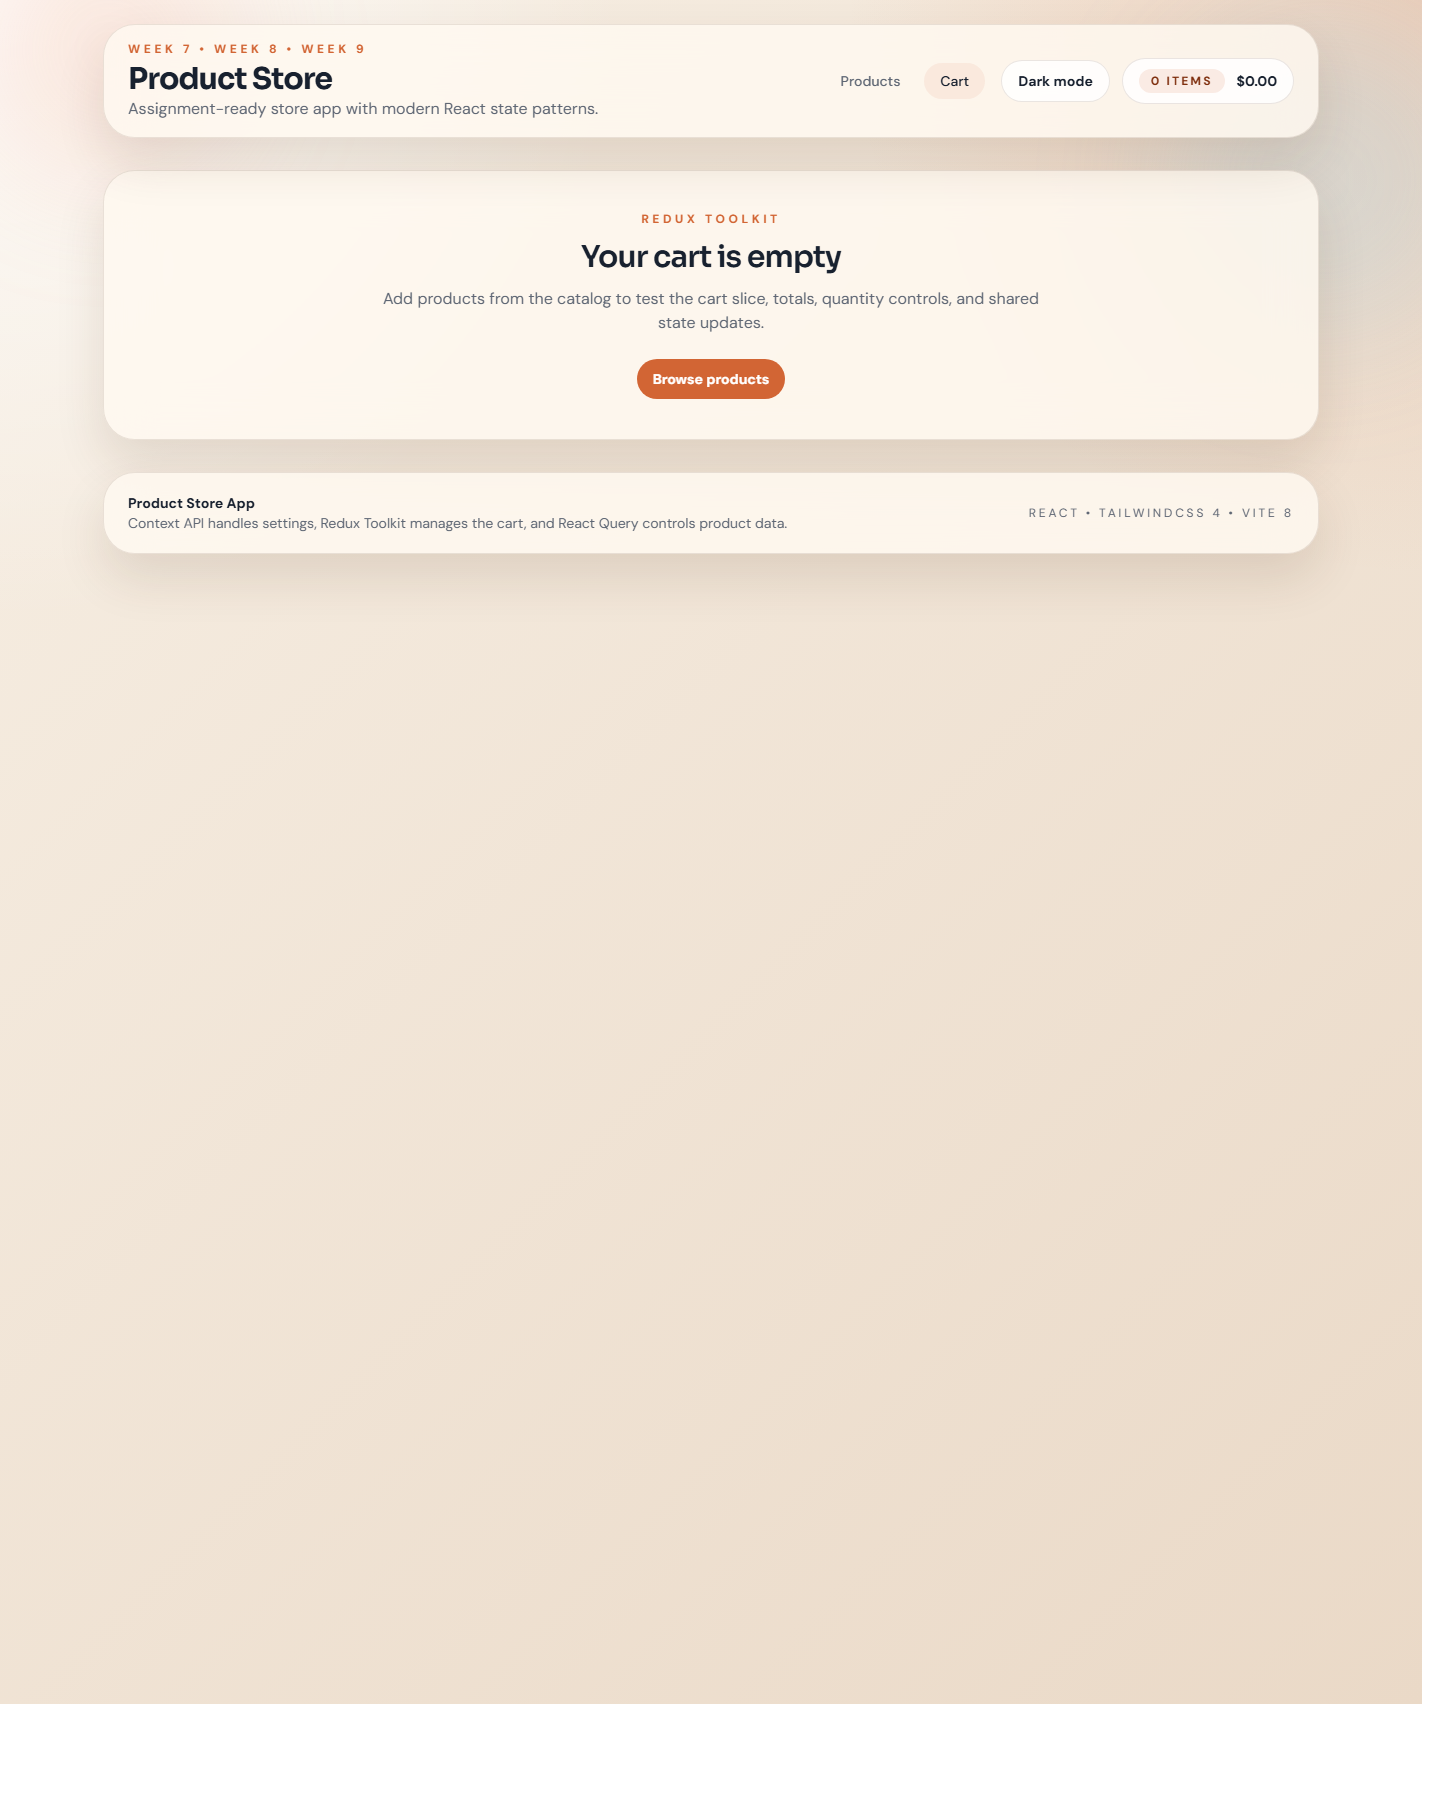
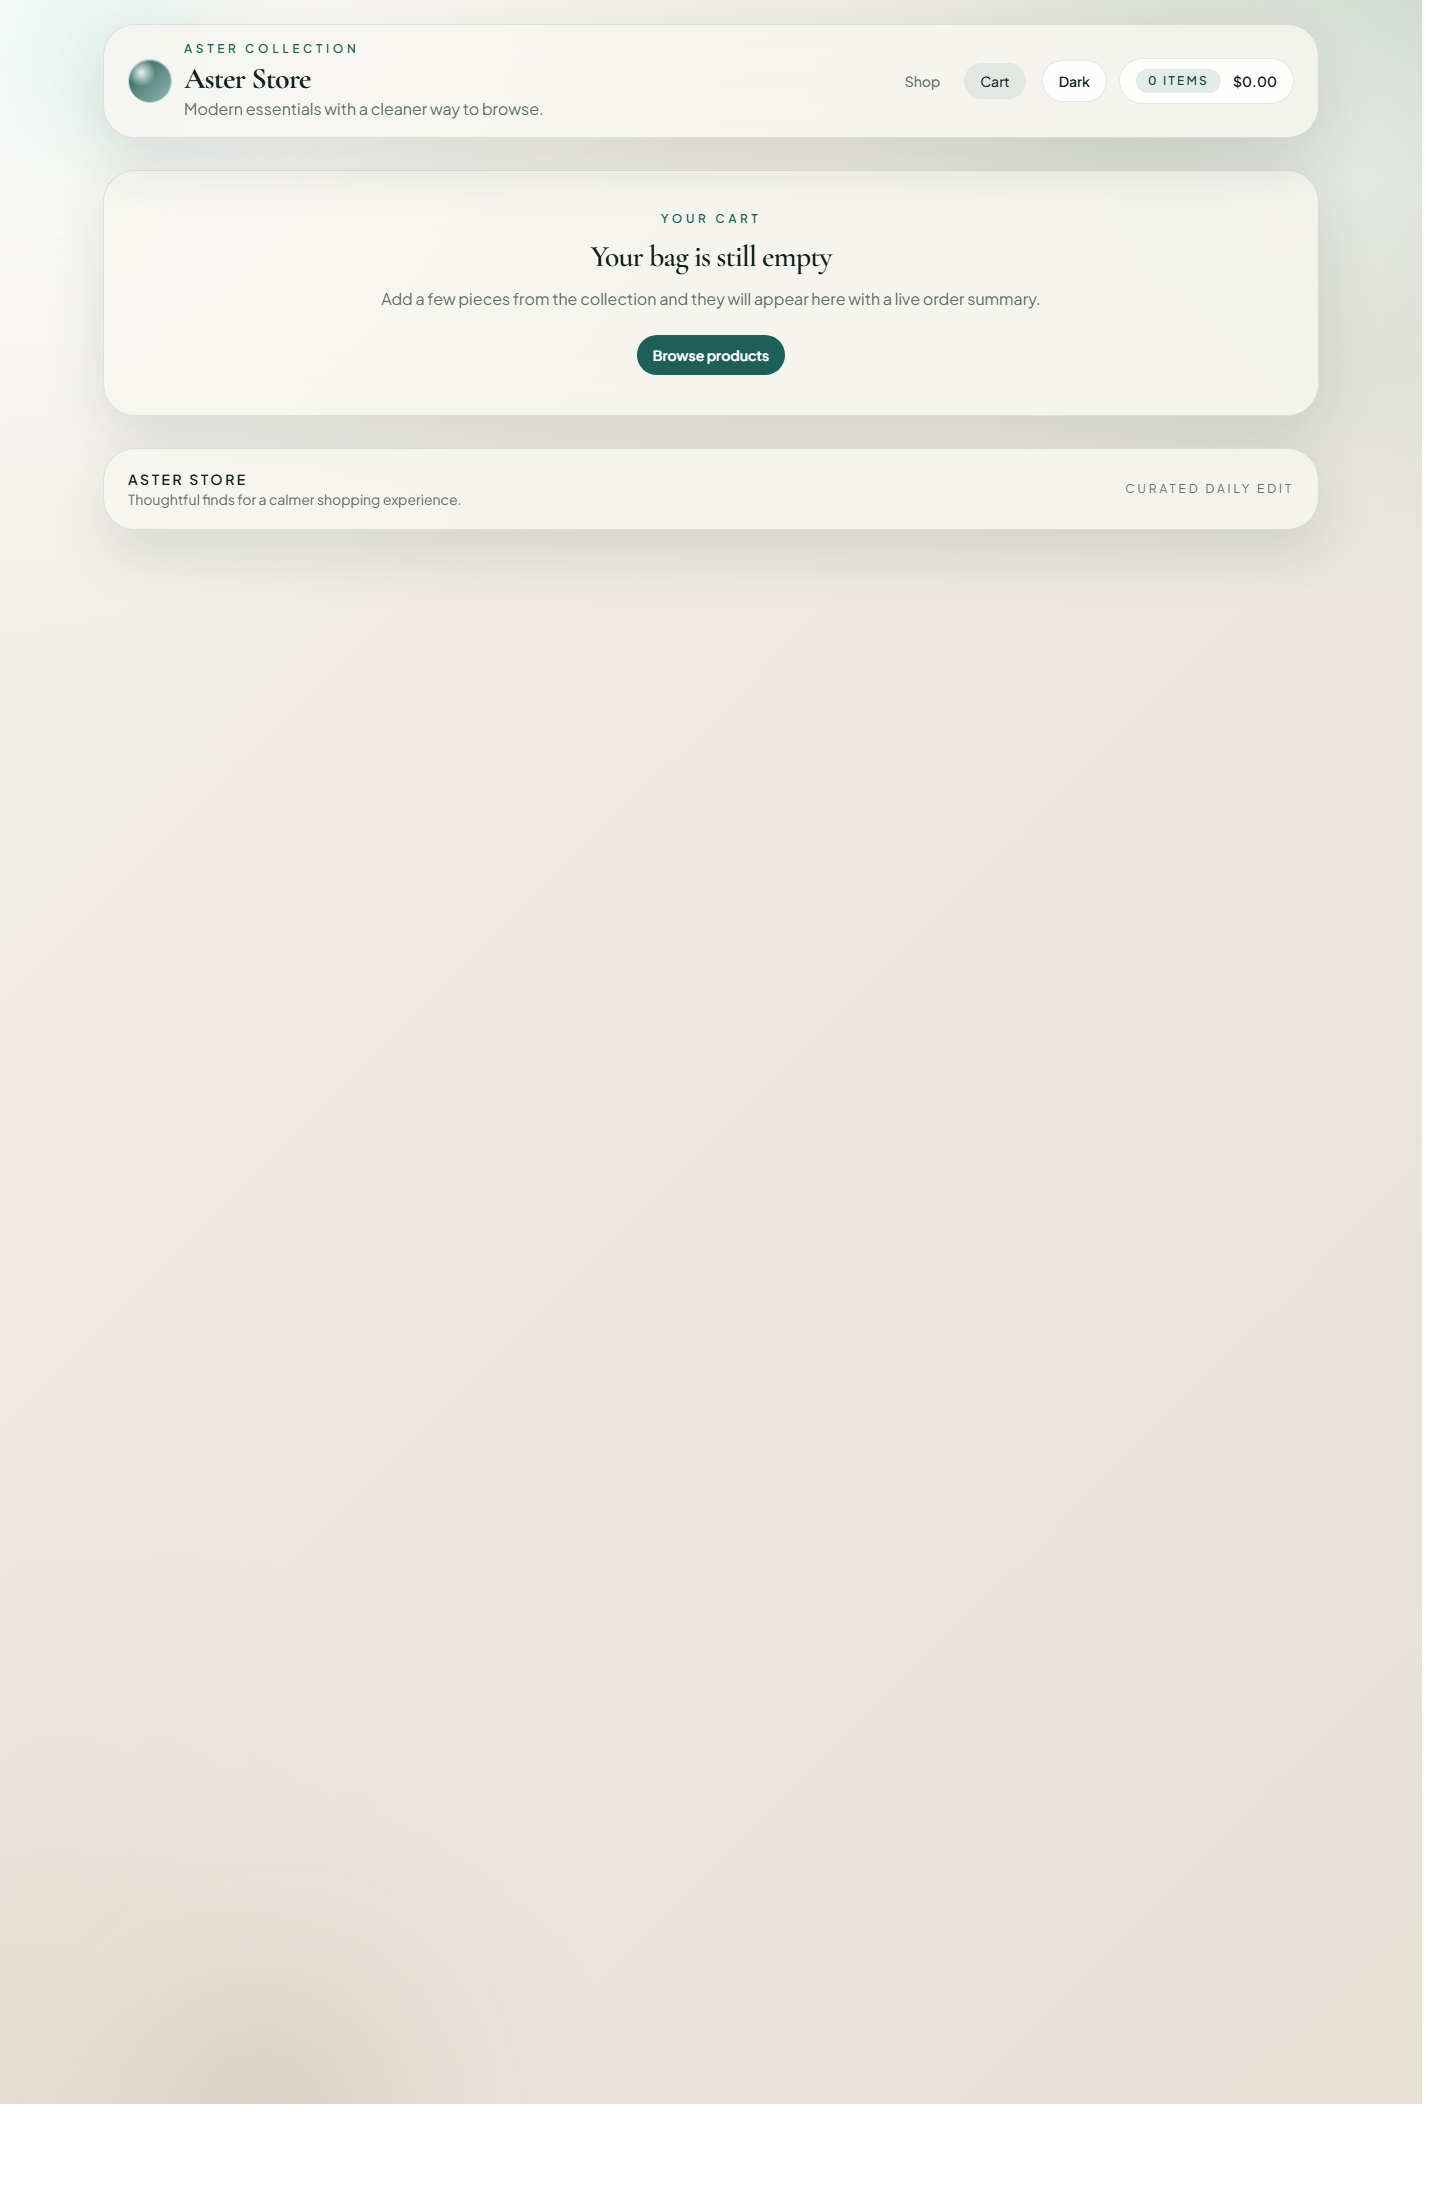
Revamp README content and update screenshots
Redesigned and expanded the README to rebrand the project as "Aster Store", emphasize a more polished storefront experience, and clarify architecture and features. Adds an overview, design direction, storefront category mapping, clearer state-management breakdown (Context + useReducer, Redux Toolkit, React Query), and updated tooling notes. Minor wording tweaks to run/build instructions and screenshots placement. Replaced the three public screenshots (home, details, cart) with updated images.

diff --git a/README.md b/README.md
@@ -1,68 +1,109 @@
-# Product Store App
+# Aster Store
 
-A React assignment project that combines Context API + `useReducer`, Redux Toolkit, and React Query in one small e-commerce app.
+A modern product store app built with React, styled with TailwindCSS 4, and powered by Context API + `useReducer`, Redux Toolkit, and React Query.
 
-## Description
+## Overview
 
-This app lets users browse products, open a product details page, switch shared UI settings, and manage a shopping cart.
+Aster Store is a calmer, more polished storefront experience where users can:
 
-It was built to demonstrate:
+- browse a curated product collection
+- switch between light and dark themes
+- change between grid and list layouts
+- filter products using simpler storefront categories
+- search and sort products
+- open product details pages
+- manage a shopping cart with live totals
 
-- when to use Context API for lightweight shared app settings
-- when to use Redux Toolkit for structured global state
-- when to use React Query for remote server data, caching, loading, and error handling
+The app uses different state tools for different jobs:
+
+- Context API + `useReducer` for shared UI settings
+- Redux Toolkit for cart state
+- React Query for product data fetching and caching
+
+## Current Design Direction
+
+This version was redesigned to feel more like a real storefront and less like a classroom demo.
+
+Highlights:
+
+- softer editorial color palette
+- cleaner premium typography
+- smaller curated product selection on screen
+- simpler store-facing category names
+- less crowded layout
+- compact settings section for personalization
 
 ## Features
 
 - Product list fetched from the DummyJSON API
-- Loading state while data is being fetched
-- Error state when requests fail
-- Product details page using a separate React Query key
-- Shared settings with Context API + `useReducer`
-- Dark mode and light mode
-- Grid view and list view
+- Product details page
+- Loading state while products are being fetched
+- Error state if fetching fails
+- Cached API data with React Query
+- Dark mode / light mode
+- Grid view / list view
 - Selected category stored in shared settings
-- Shopping cart built with Redux Toolkit
+- Search products by title, description, or brand
+- Sort products by featured, rating, title, or price
+- Shopping cart using Redux Toolkit
 - Add to cart
 - Remove from cart
 - Increase quantity
 - Decrease quantity
 - Clear cart
-- Total item count
+- Total number of items
 - Total price
-- Search products
-- Sort products
-- Responsive layout
-- Cart persistence in `localStorage`
-- Theme/settings persistence in `localStorage`
+- Responsive design
+- Cart persistence with `localStorage`
+- Settings persistence with `localStorage`
+
+## Storefront Categories
+
+Instead of relying on raw API categories in the UI, this version groups products into cleaner storefront categories:
+
+- All
+- Beauty
+- Tech
+- Fashion
+- Home
+- Lifestyle
+
+These categories are mapped locally from the API product categories to keep the browsing experience simpler and more consistent.
 
 ## State Management Breakdown
 
 ### Context API + `useReducer`
 
-Used for app-wide UI settings:
+Used for shared app settings:
 
 - theme
-- product layout
-- selected category
+- view mode
+- selected storefront category
 
 ### Redux Toolkit
 
 Used for shopping cart state:
 
 - cart items
+- add/remove actions
 - quantity updates
 - totals
-- clear/remove actions
+- clear cart
 
 ### React Query
 
-Used for API data:
+Used for server data:
 
-- category list
-- product list
-- product details
-- caching with query keys such as `['products', category]` and `['product', productId]`
+- fetching all products
+- fetching individual product details
+- loading state
+- error state
+- cached query data
+
+Main query keys used:
+
+- `['products']`
+- `['product', productId]`
 
 ## Tools / Libraries Used
 
@@ -73,9 +114,13 @@ Used for API data:
 - Redux Toolkit
 - React Redux
 - TanStack React Query
-- DummyJSON API
+- DummyJSON Products API
 
 ## Screenshots
+
+### Home Page
+
+![Home page](./public/home-screenshot.png)
 
 ### Product Details Page
 
@@ -85,23 +130,24 @@ Used for API data:
 
 ![Cart page](./public/cart-screenshot.png)
 
+
 ## How to Run
 
-1. Clone the repository.
-2. Open the project folder.
-3. Install dependencies:
+1. Clone the repository
+2. Open the project folder
+3. Install dependencies
 
 ```bash
 npm install
 ```
 
-4. Start the development server:
+4. Start the development server
 
 ```bash
 npm run dev
 ```
 
-5. Open the local URL shown by Vite in your browser.
+5. Open the local Vite URL in your browser
 
 ## Build for Production
 
@@ -113,8 +159,8 @@ npm run build
 
 This project uses the [DummyJSON Products API](https://dummyjson.com/docs/products).
 
-## Submission Notes
+Products are fetched from:
 
-- GitHub repository: this project folder
-- README included
-- Screenshots included in the README
+- `/products?limit=0`
+- `/products/:id`
+
